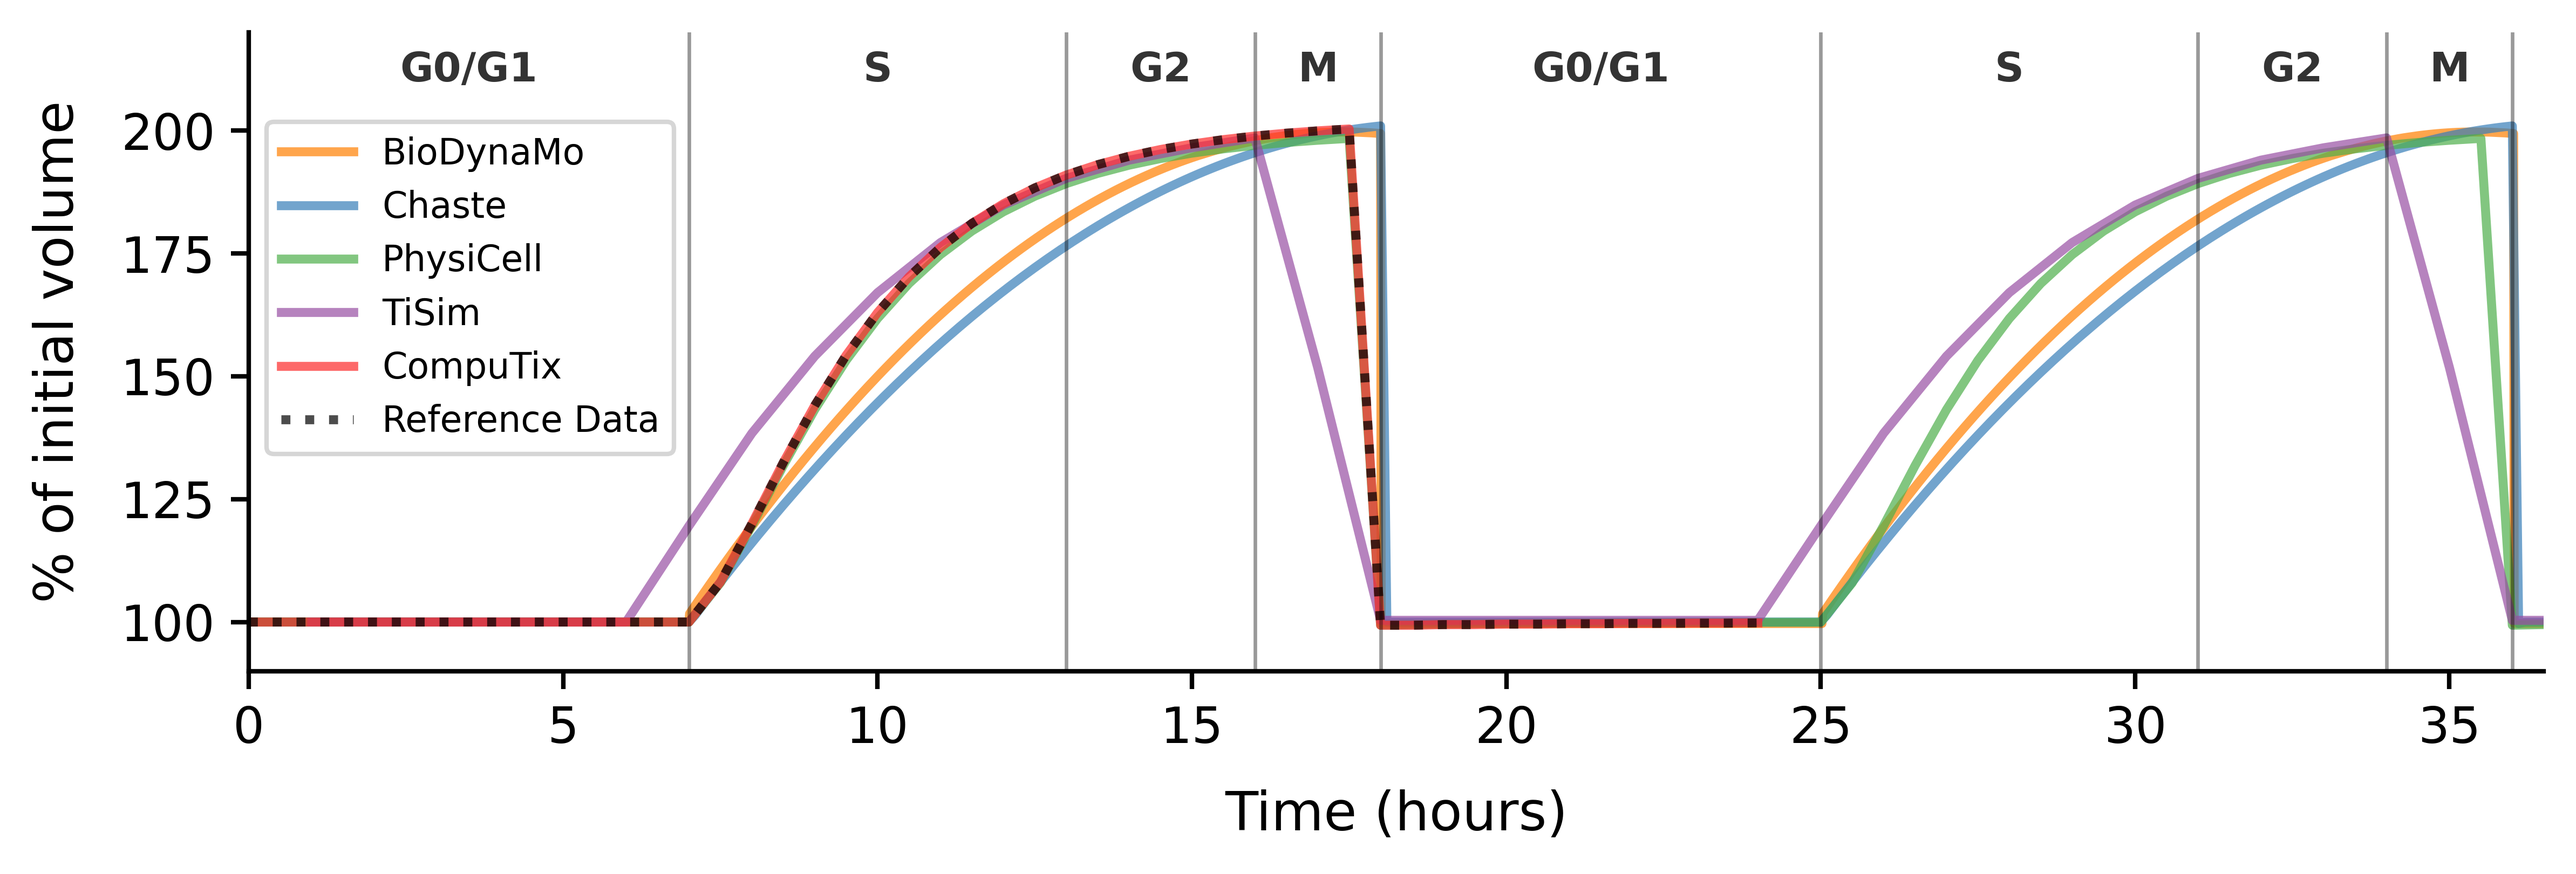
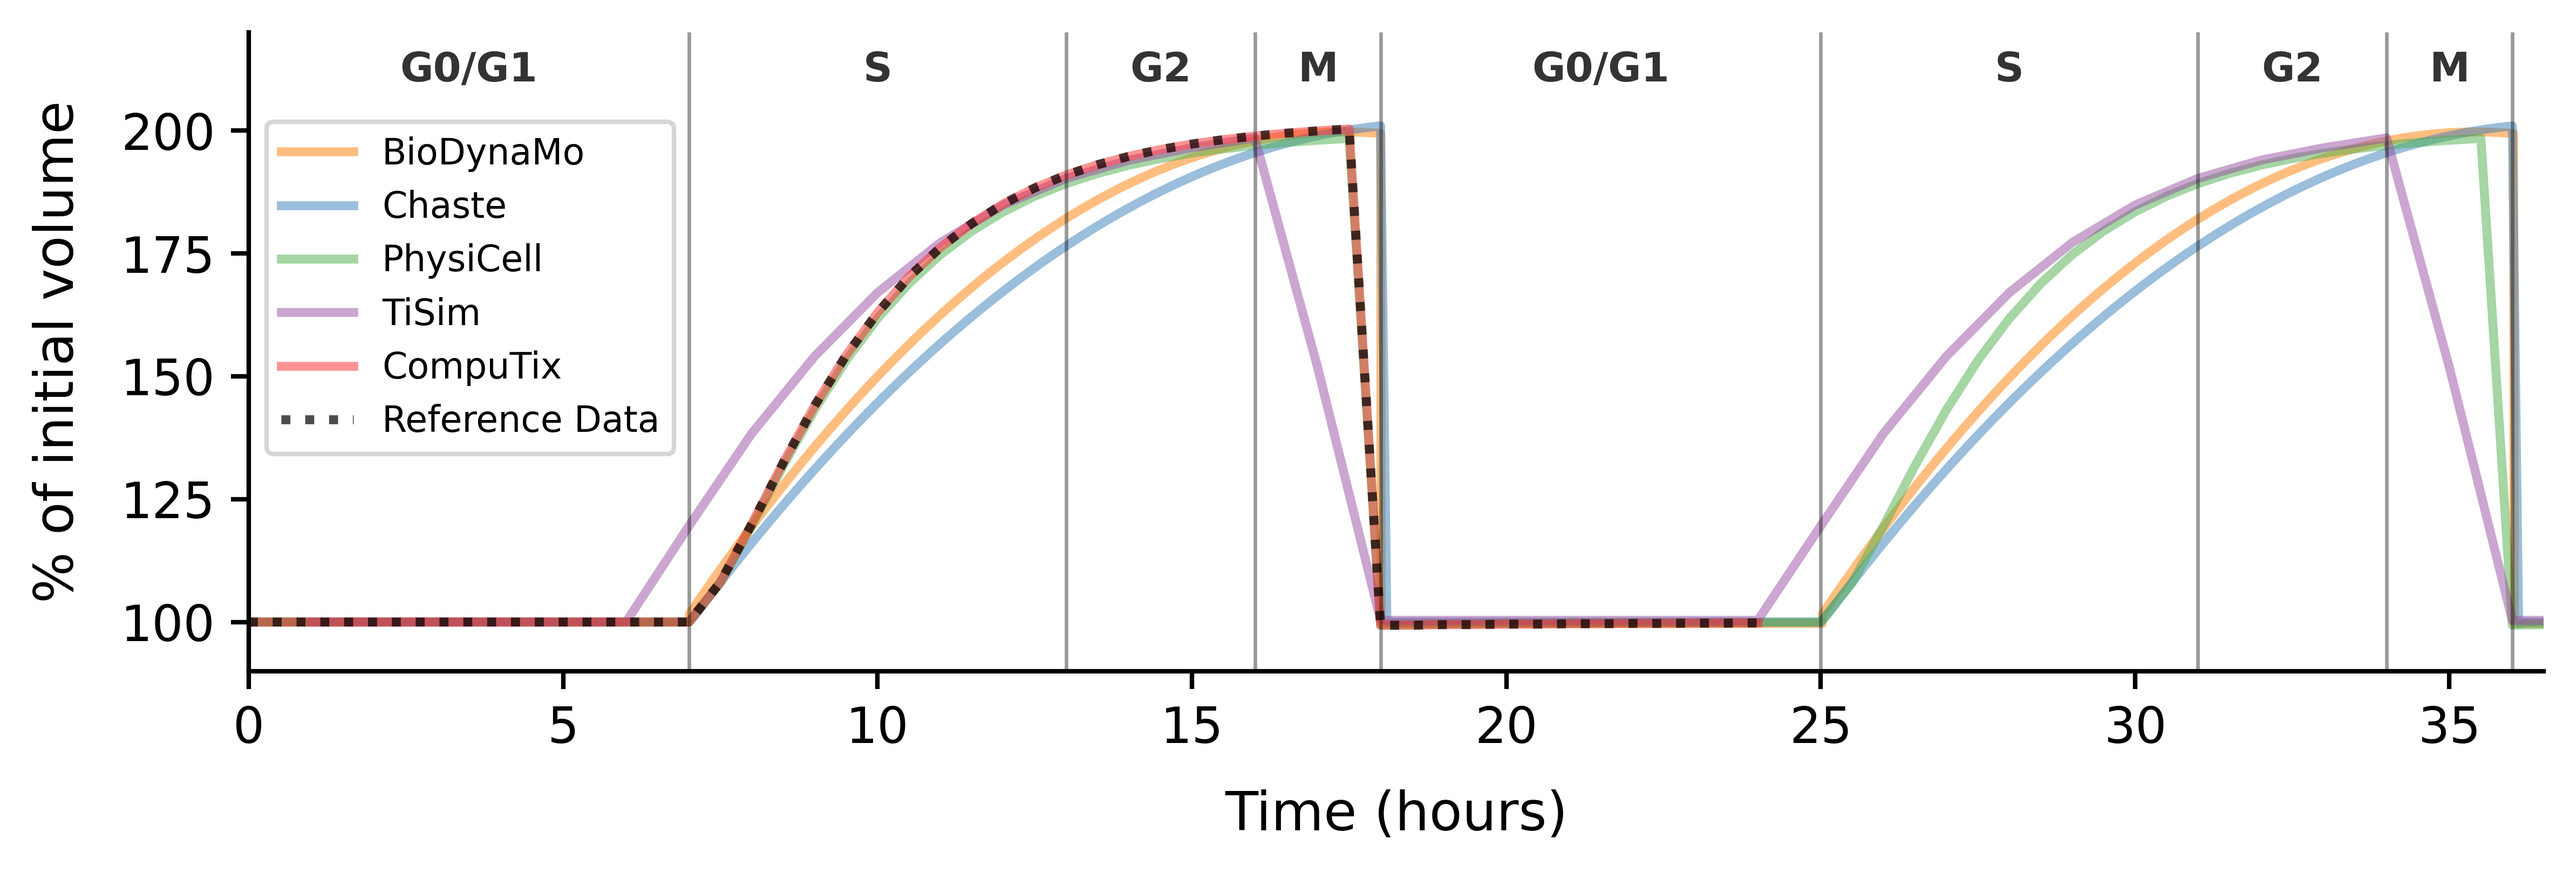
integrating Computix results

diff --git a/ResultAnalysis/plot_scripts/plot_fixed_cell_cycle.py b/ResultAnalysis/plot_scripts/plot_fixed_cell_cycle.py
@@ -118,7 +118,7 @@ ax.plot(bd_df['timestep'], bd_df["vol"] * 100,
         linestyle=linestyles['BioDynaMo'], 
         label=labels['BioDynaMo'],
         linewidth=2.0,
-        alpha=0.7)
+        alpha=0.5)
 
 # Chaste
 ch_init_vol = ch_df.loc[0, "volume"]
@@ -130,7 +130,7 @@ ax.plot(dts, vols,
         linestyle=linestyles['Chaste'], 
         label=labels['Chaste'],
         linewidth=2.0,
-        alpha=0.7)
+        alpha=0.5)
 
 # PhysiCell
 ax.plot(pc_dts, pc_vols, 
@@ -138,7 +138,7 @@ ax.plot(pc_dts, pc_vols,
         linestyle=linestyles['PhysiCell'], 
         label=labels['PhysiCell'],
         linewidth=2.0,
-        alpha=0.7)
+        alpha=0.5)
 
 # TiSim
 ax.plot(ts_df['timestep'], ts_df['volumes'], 
@@ -146,18 +146,17 @@ ax.plot(ts_df['timestep'], ts_df['volumes'],
         linestyle=linestyles['TiSim'], 
         label=labels['TiSim'],
         linewidth=2.0,
-        alpha=0.7)
+        alpha=0.5)
 # CompuTiX
 file = "CompuTiX/fixed_cell_cycle/data/cell_cycle.csv"
 comp_df = pd.read_csv(file, header=0)
 comp_df['#Time (minutes)']/=60
-print(comp_df['#Time (minutes)'])
 ax.plot(comp_df['#Time (minutes)'], comp_df["relative_volume"],
         color=colors['CompuTix'], 
         linestyle=linestyles['CompuTix'], 
         label=labels['CompuTix'],
         linewidth=2.0,
-        alpha=0.7)
+        alpha=0.5)
 
 # Experimental Data
 ax.plot(exp_df['timestep'], exp_df["volume"],

diff --git a/ResultAnalysis/plot_scripts/plot_monolayer.py b/ResultAnalysis/plot_scripts/plot_monolayer.py
@@ -190,10 +190,12 @@ ax1.spines['right'].set_visible(False)
 ax1.tick_params(axis='both', which='major', labelsize=11)
 
 # Second plot (deviations)
-for result in ['BioDynaMo', 'Chaste', 'PhysiCell', 'TiSim' ]:
+for result in ['BioDynaMo', 'Chaste', 'PhysiCell', 'TiSim','CompuTix' ]:
     df = df_all[(df_all['Results'] == result) & (df_all['dt'] <= 27)]
-    exp_values = exp_interp(df['dt'])
+    exp_values = exp_interp(np.round(df['dt']))
     deviations = df['diam'] - exp_values
+    print(df)
+    print(deviations)
     ax2.plot(
         df['dt'], 
         deviations,
